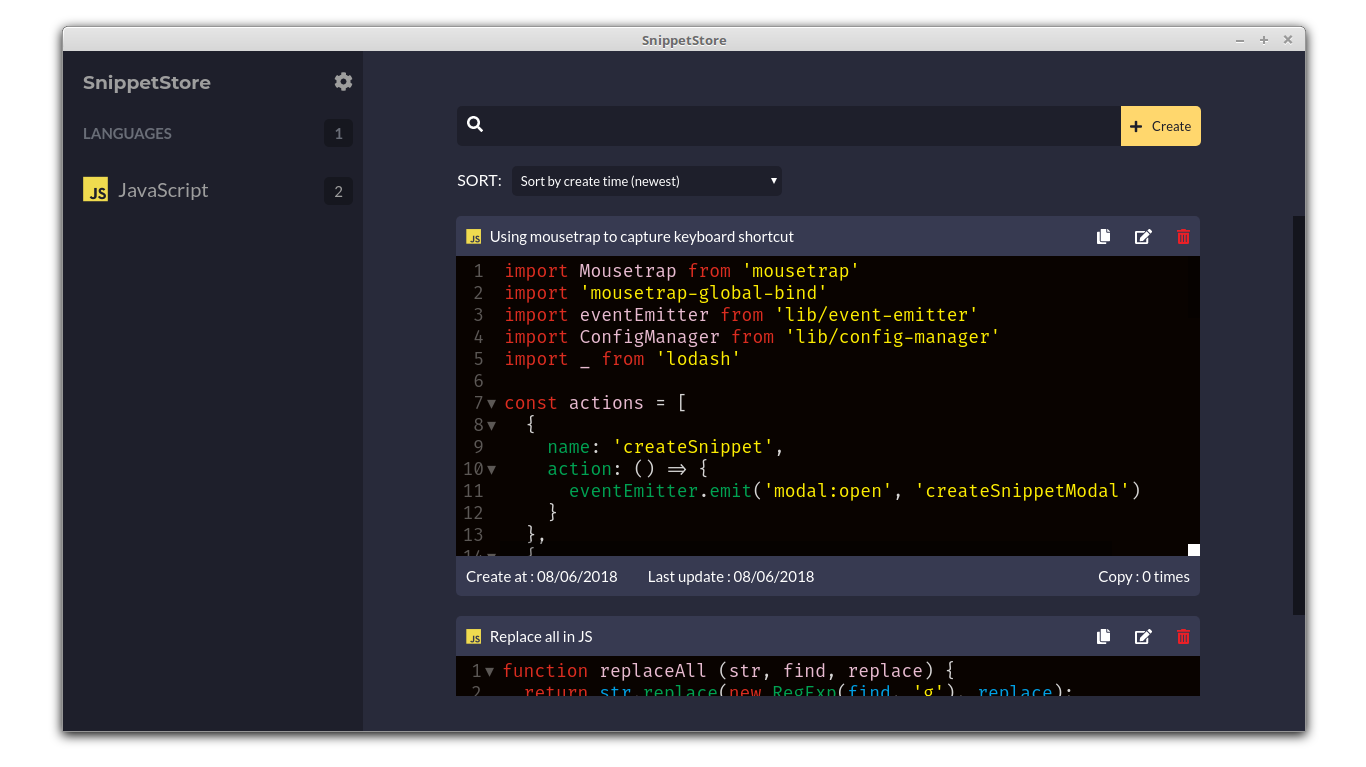
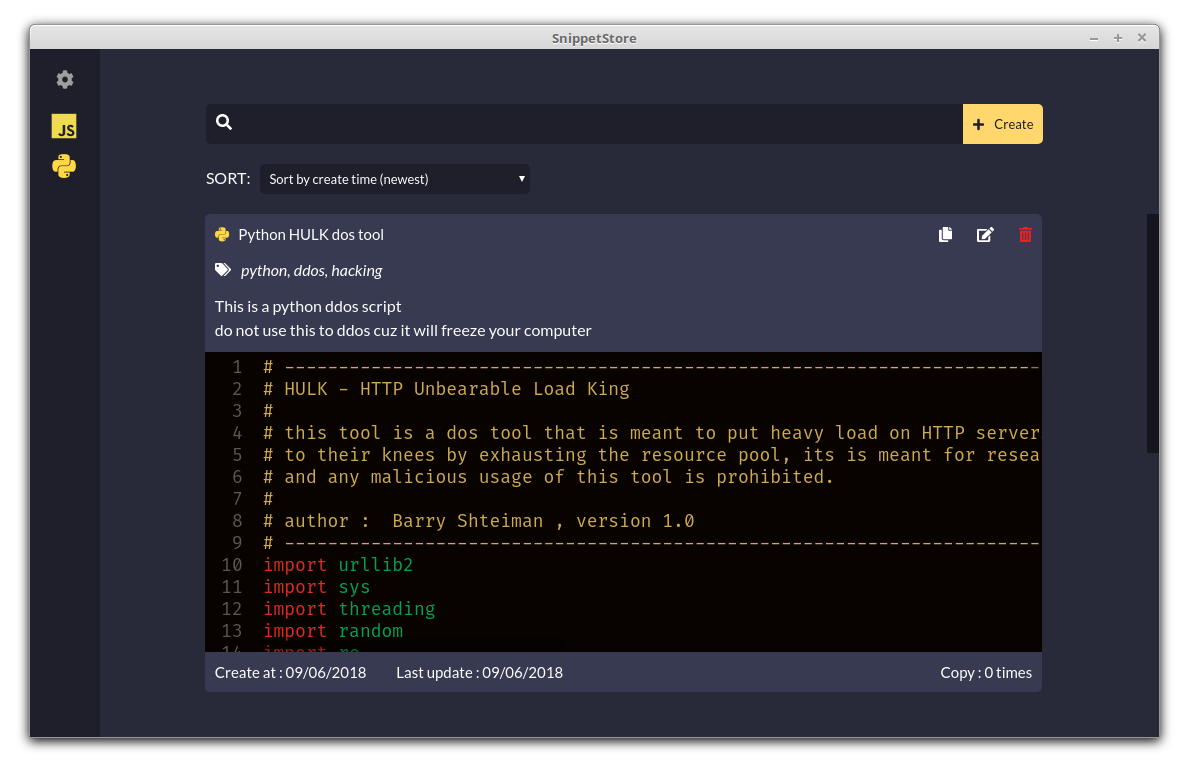
added description support

diff --git a/browser/render/components/snippet-item/index.jsx b/browser/render/components/snippet-item/index.jsx
@@ -92,17 +92,19 @@ export default class SnippetItem extends React.Component {
   }
 
   handleSaveChangesClick () {
-    const valueChanged = this.props.snippet.value !== this.editor.getValue()
-    const langChanged  = this.props.snippet.lang !== this.refs.lang.value
-    const nameChanged  = this.props.snippet.name !== this.refs.name.value
-    const newTags      = this.refs.tags.value.replace(/ /g, '').split(',')
-    const tagChanged   = !_.isEqual(this.props.snippet.tags, newTags)
-    if (valueChanged || langChanged || nameChanged || tagChanged) {
-      const newSnippet = _.clone(this.props.snippet)
-      newSnippet.value = this.editor.getValue()
-      newSnippet.lang  = this.refs.lang.value
-      newSnippet.name  = this.refs.name.value
-      newSnippet.tags  = newTags
+    const valueChanged       = this.props.snippet.value !== this.editor.getValue()
+    const langChanged        = this.props.snippet.lang !== this.refs.lang.value
+    const nameChanged        = this.props.snippet.name !== this.refs.name.value
+    const newTags            = this.refs.tags.value.replace(/ /g, '').split(',')
+    const tagChanged         = !_.isEqual(this.props.snippet.tags, newTags)
+    const descriptionChanged = this.props.snippet.description !== this.refs.description.value
+    if (valueChanged || langChanged || nameChanged || tagChanged || descriptionChanged) {
+      const newSnippet       = _.clone(this.props.snippet)
+      newSnippet.value       = this.editor.getValue()
+      newSnippet.lang        = this.refs.lang.value
+      newSnippet.name        = this.refs.name.value
+      newSnippet.tags        = newTags
+      newSnippet.description = this.refs.description.value
       if (langChanged) {
         const snippetMode = CodeMirror.findModeByName(newSnippet.lang).mode
         require(`codemirror/mode/${snippetMode}/${snippetMode}`)
@@ -211,6 +213,13 @@ export default class SnippetItem extends React.Component {
             isEditing
             ? <input type='text' ref='tags' defaultValue={snippet.tags.join(', ')} />
             : snippet.tags.join(', ')
+          }
+        </div>
+        <div className={`description ${isEditing ? 'editing' : ''}`}>
+          {
+            isEditing
+            ? <textarea ref='description'>{snippet.description}</textarea>
+            : snippet.description
           }
         </div>
         <div className='code' ref='editor'></div>

diff --git a/browser/render/modals/create-snippet/index.jsx b/browser/render/modals/create-snippet/index.jsx
@@ -30,7 +30,7 @@ export default class CreateSnippetModal extends React.Component {
     this.editor.setOption('indentUnit', tabSize)
     this.editor.setOption('tabSize', tabSize)
     this.editor.setOption('indentWithTabs', indentUsingTab)
-    this.editor.setSize('100%', '300px')
+    this.editor.setSize('100%', '200px')
     this.editor.getWrapperElement().style.fontFamily = fontFamily
 
     eventEmitter.on('modal:onClose', (event, name) => {
@@ -48,9 +48,10 @@ export default class CreateSnippetModal extends React.Component {
   }
 
   createSnippet () {
-    const snippetName = this.refs.snippetName.value
-    const snippetLang = this.refs.lang.value
-    const snippetCode = this.editor.getValue()
+    const snippetName        = this.refs.snippetName.value
+    const snippetLang        = this.refs.lang.value
+    const snippetCode        = this.editor.getValue()
+    const snippetDescription = this.refs.description.value
 
     if (!snippetName || !snippetLang) {
       this.setState({ error: 'Please specify at least snippet name and language' })
@@ -60,14 +61,16 @@ export default class CreateSnippetModal extends React.Component {
     this.props.store.createSnippet({
       name: snippetName,
       lang: snippetLang,
-      value: snippetCode
+      value: snippetCode,
+      description: snippetDescription
     })
     this.reset()
     eventEmitter.emit('modal:close', this.state.name)
   }
 
   reset () {
-    this.refs.snippetName.value = ''
+    this.refs.snippetName.value  = ''
+    this.refs.description.value  = ''
     this.refs.lang.selectedIndex = 0
     this.editor.setValue('')
   }
@@ -92,6 +95,10 @@ export default class CreateSnippetModal extends React.Component {
                 ))
               }
             </select>
+          </div>
+          <div className='code-input-group'>
+            <label>{ i18n.__('Snippet description') }</label>
+            <textarea ref='description'></textarea>
           </div>
           <div className='code-input-group'>
             <label>{ i18n.__('Snippet content') }</label>

diff --git a/browser/render/components/snippet-item/snippet-item.sass b/browser/render/components/snippet-item/snippet-item.sass
@@ -66,31 +66,26 @@
       font-size: 15px
       border-radius: 5px
       padding: 2px 5px
-  .content
-    display: flex
-    .file-list
-      label
-        margin: 10px
-        display: block
-        height: 20px
-      ul
-        width: 100%
-        height: calc(100% - 40px)
-        li
-          width: 100%
-          height: 30px
-          padding: 5px 10px
-          cursor: pointer
-          text-overflow: ellipsis
-          white-space: nowrap
-          overflow: hidden
-    .code
-      min-height: calc(100% - 110px)
-      max-height: 300px
-      &.with-file-list
-        width: 80%
-    .file-list
-      width: 20%
+  .description
+    max-height: 200px
+    padding: 10px
+    overflow-y: scroll
+    white-space: pre-line
+    line-height: 1.5em
+    &.editing
+      overflow: hidden
+    textarea
+      width: 100%
+      height: 170px
+      border: none
+      outline: none
+      font-size: 15px
+      border-radius: 5px
+      padding: 10px
+      resize: none
+      font-family: 'Lato'
+  .code
+    max-height: 300px
   .footer
     width: 100%
     height: 40px

diff --git a/browser/render/lib/styles/theme/dark.sass b/browser/render/lib/styles/theme/dark.sass
@@ -37,7 +37,7 @@ body[data-theme='dark']
       select
         background: $input-tag-background--dark
         color: $input-tag-foreground--dark
-      input[type='text']
+      input[type='text'], textarea
         background: $input-tag-background--dark
         color: $input-tag-foreground--dark
     select
@@ -50,10 +50,7 @@ body[data-theme='dark']
   .modal
     background: $body-background--dark
     color: white
-    input[type='text'], input[type='number']
-      background: $input-tag-background--dark
-      color: $input-tag-foreground--dark
-    select
+    input[type='text'], input[type='number'], textarea, select
       background: $input-tag-background--dark
       color: $input-tag-foreground--dark
     button

diff --git a/browser/render/lib/styles/theme/light.sass b/browser/render/lib/styles/theme/light.sass
@@ -53,10 +53,7 @@ body[data-theme='light']
   .modal
     background: $body-background--light
     color: black
-    input[type='text'], input[type='number']
-      background: $input-tag-background--light
-      color: $input-tag-foreground--light
-    select
+    input[type='text'], input[type='number'], textarea, select
       background: $input-tag-background--light
       color: $input-tag-foreground--light
     button

diff --git a/browser/render/modals/modal.sass b/browser/render/modals/modal.sass
@@ -93,3 +93,13 @@
           width: 100%
           margin-bottom: 10px
           display: block
+        textarea
+          width: 100%
+          height: 200px
+          outline: none
+          border: none
+          border-radius: 5px
+          resize: none
+          padding: 10px
+          font-size: 15px
+          font-family: 'Lato'

diff --git a/browser/store/SnippetStore.js b/browser/store/SnippetStore.js
@@ -28,7 +28,7 @@ class SnippetStore {
   @computed get tags () {
     const tags = {}
     this.rawSnippets.forEach(snippet => {
-      snippet.tags.forEach(tag => {
+      snippet.tags.filter(tag => tag).forEach(tag => {
         if (tags[tag]) {
           tags[tag] += 1
         } else {

diff --git a/browser/render/lib/styles/reset.sass b/browser/render/lib/styles/reset.sass
@@ -26,3 +26,6 @@ a
 
 ::-webkit-scrollbar-thumb
   background-color: rgba(0, 0, 0, 0.3)
+
+.CodeMirror-scrollbar-filler
+  background: rgba(0, 0, 0, 0)!important

diff --git a/README.md b/README.md
@@ -2,7 +2,7 @@
   <img src='resources/image/screenshot.png' />
 </p>
 <h1 align='center'>SnippetStore</h1>
-<p align='center'><i>A snippet store for lazy developers</i></p>
+<p align='center'><i>A snippet management app for developers</i></p>
 
 ## About this project
 SnippetStore is a application for developers to store their snippets and quickly retrieve them when needed.
